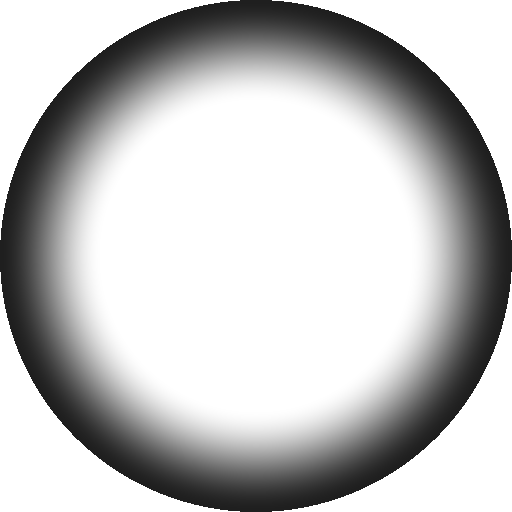
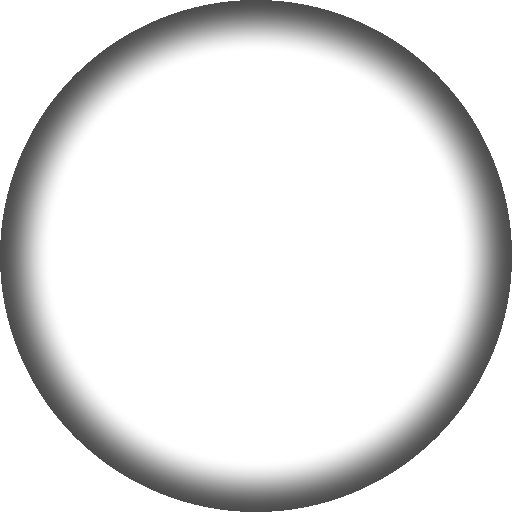
Scope overlay: lighter lens vignette; presenter removes the overlay synchronously outside Play mode
The first vignette darkened the outer 40 % of the lens so an 8x lens read as a small bright disc.
It now starts at 80 % of the radius and peaks at 70 % opacity. ScopeViewPresenter.Release uses
DestroyImmediate when the application is not playing, so edit-mode fixtures do not accumulate
overlay instances between lenses.

diff --git a/Assets/_Flats/Runtime/Gameplay/ScopeViewPresenter.cs b/Assets/_Flats/Runtime/Gameplay/ScopeViewPresenter.cs
@@ -135,21 +135,25 @@ public sealed class ScopeViewPresenter : MonoBehaviour
         else if (overlay != null && overlay.image != null && target != null && overlay.image.texture != target.Target) overlay.image.texture = target.Target;
     }
 
+    // Edit-mode fixtures (private validation) call Apply/Restore outside Play mode, where
+    // Destroy is deferred forever; remove synchronously there.
+    static void Remove(Object target) { if (Application.isPlaying) Destroy(target); else DestroyImmediate(target); }
+
     void Release()
     {
-        if (overlay != null) { Destroy(overlay.gameObject); overlay = null; }
+        if (overlay != null) { Remove(overlay.gameObject); overlay = null; }
         if (worldCanvas != null) { worldCanvas.SetActive(worldCanvasWasActive); worldCanvas = null; }
         OverlayDiameter = 0f;
         if (mask != null) mask.localScale = authoredMaskScale;
         if (sightCamera != null) sightCamera.fieldOfView = authoredFieldOfView;
         if (target != null) target.SetRenderScale(1);
         lookScale = 1f;
-        Destroy(this);
+        Remove(this);
     }
 
     void OnDestroy()
     {
-        if (overlay != null) { Destroy(overlay.gameObject); overlay = null; }
+        if (overlay != null) { Remove(overlay.gameObject); overlay = null; }
         if (worldCanvas != null) { worldCanvas.SetActive(worldCanvasWasActive); worldCanvas = null; }
         if (current == this) current = null;
     }
